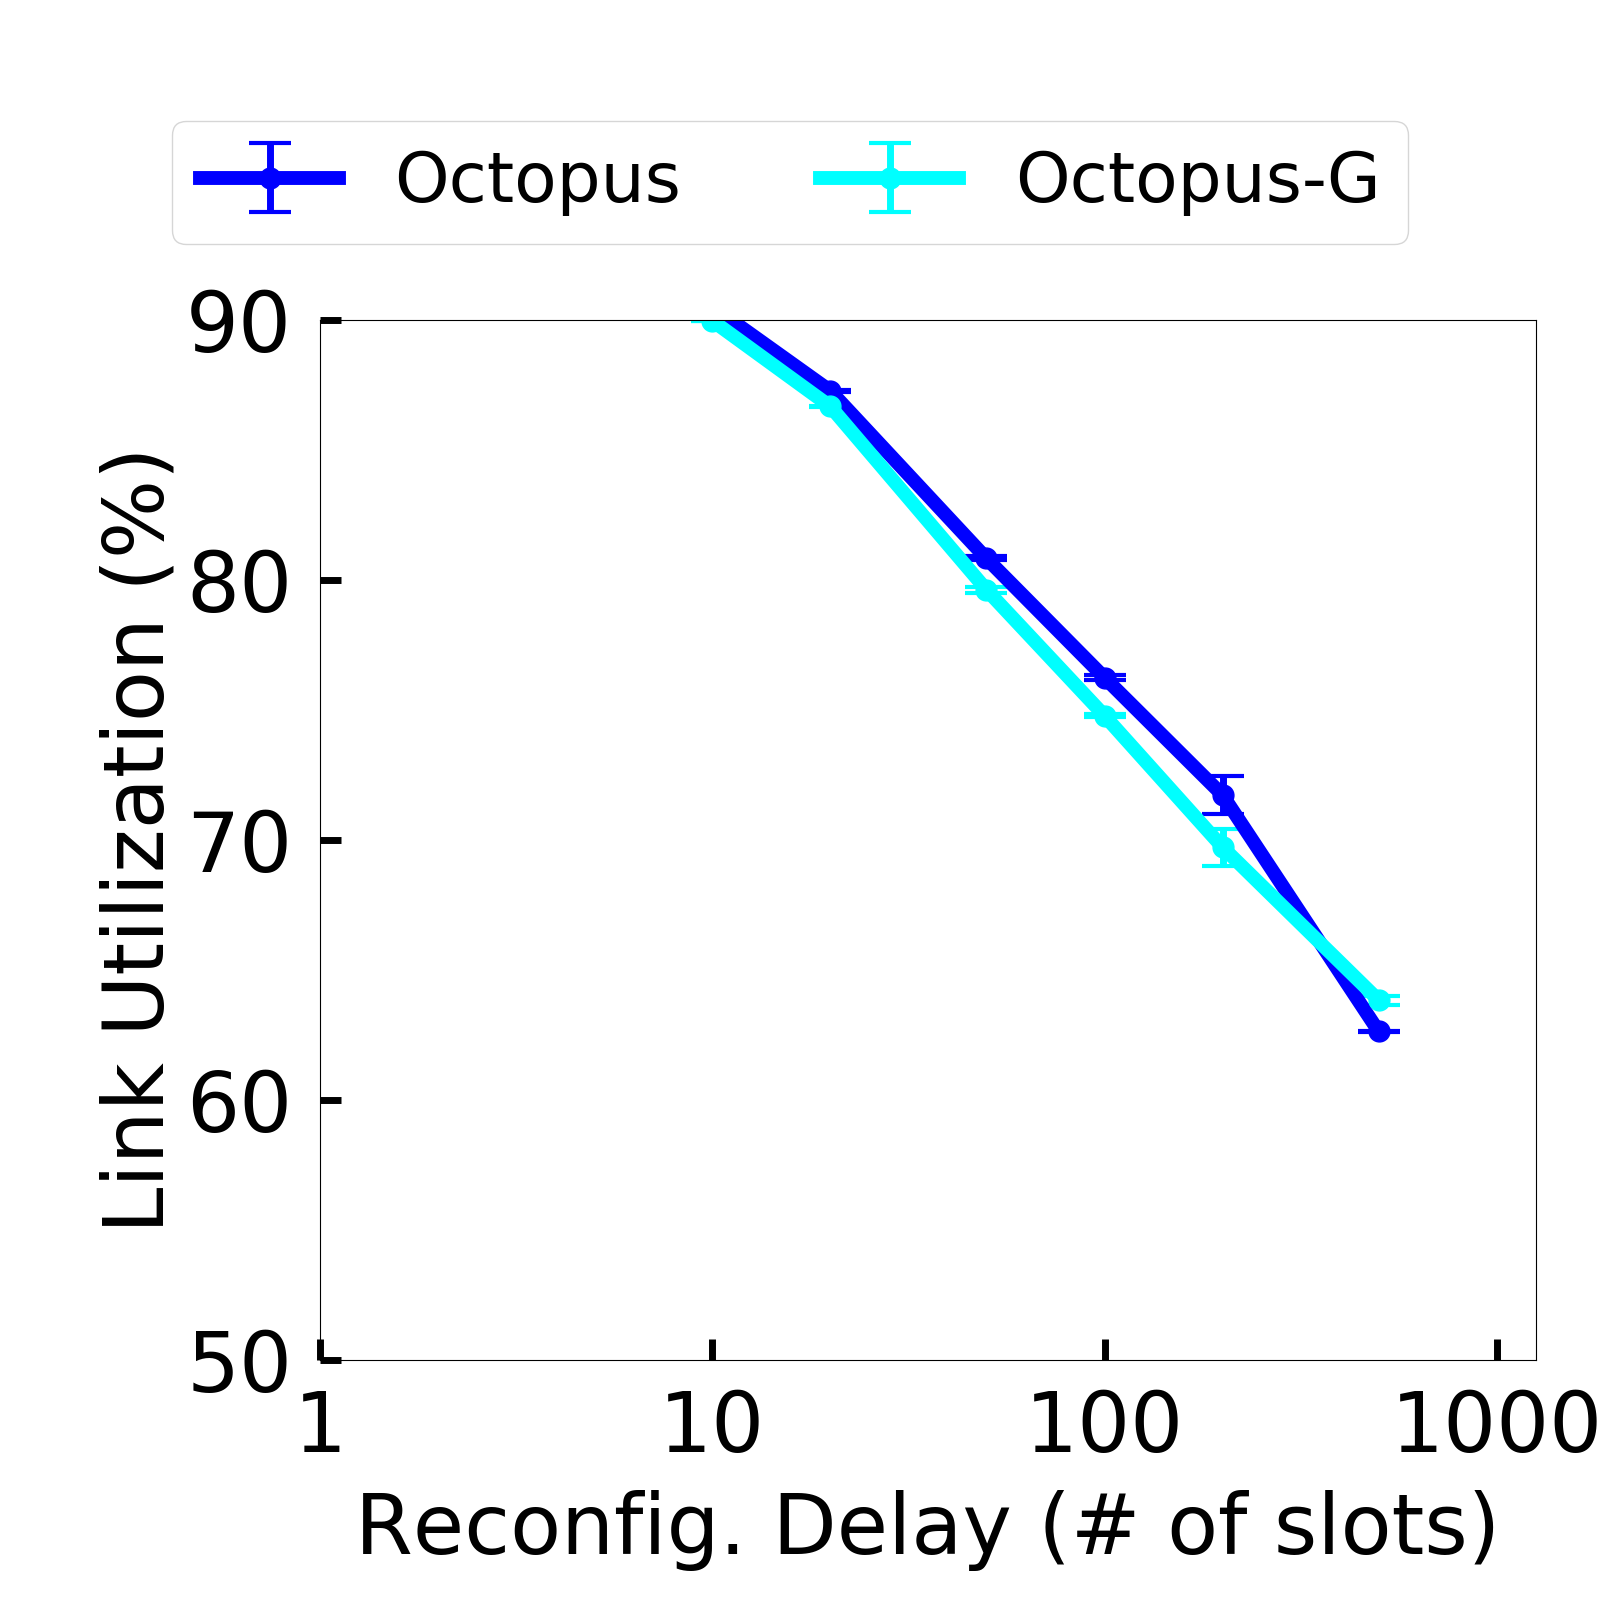
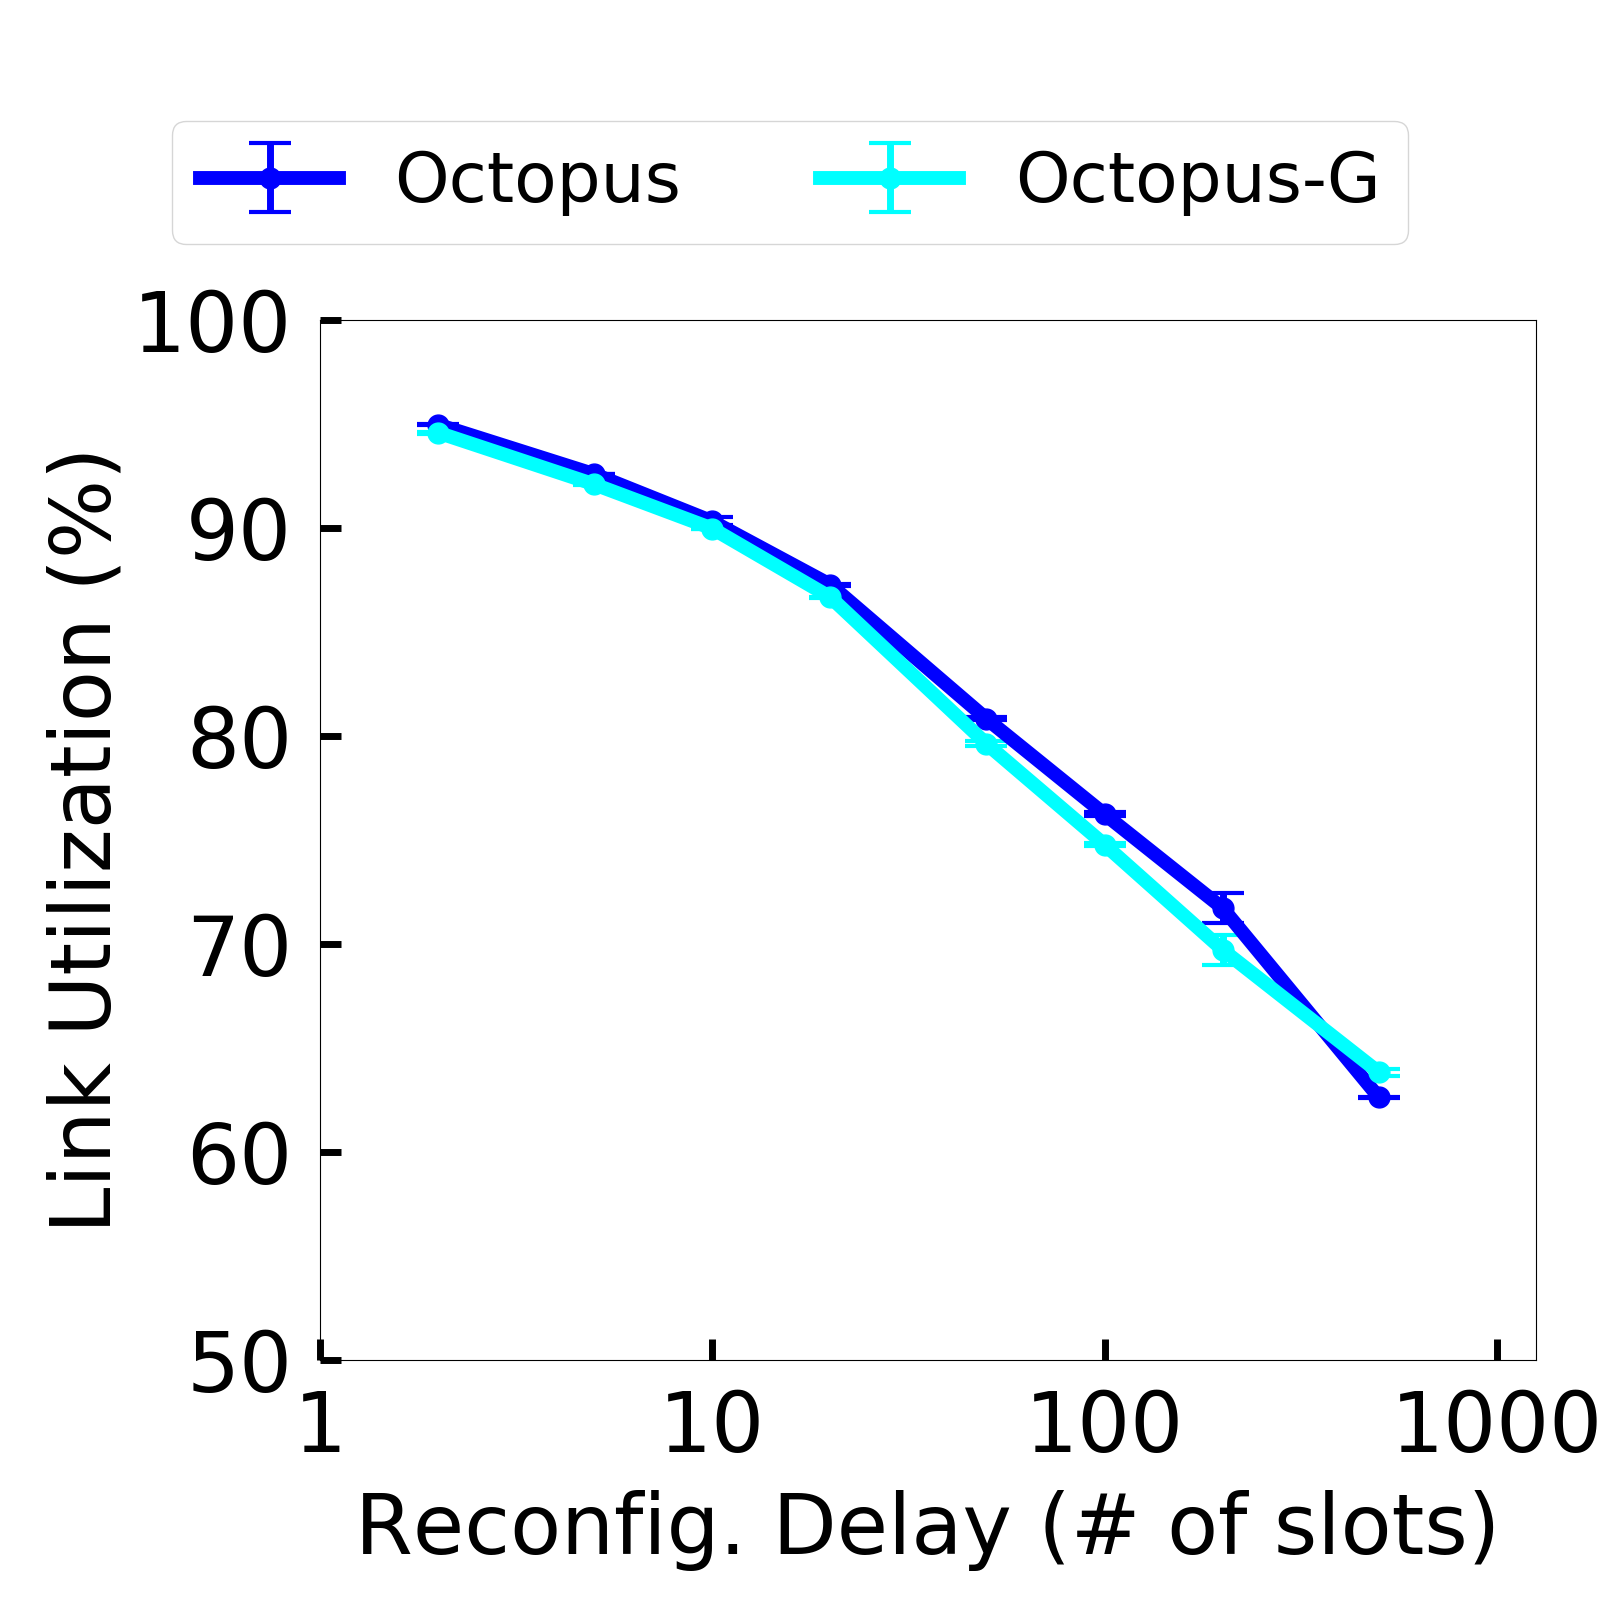
add experiment results

diff --git a/algos.py b/algos.py
@@ -28,6 +28,7 @@ def setUseEps(use_eps):
 	return rv
 
 DEBUG = False
+good_iteration = True
 add_matching_counter = 0
 fast_counter = 0
 full_counter = 0
@@ -44,7 +45,7 @@ class Schedule:
 
 	def addMatching(self, matching, duration, matching_weight):
 		if DEBUG:
-			global add_matching_counter, col_counter, full_counter, fast_counter, full_list, fast_list
+			global add_matching_counter, full_counter, fast_counter, full_list, fast_list
 			add_matching_counter += 1
 			print('add_matching_counter = {}'.format(add_matching_counter))
 			print('time', time.clock())
@@ -52,10 +53,11 @@ class Schedule:
 			fast_list.append(fast_counter)
 			full_counter = 0
 			fast_counter = 0
+		global good_iteration
+		good_iteration = True
 
 		self.matchings.append(matching)
 		self.durations.append(duration)
-
 		self.matching_weights.append(matching_weight)
 
 	def numMatchings(self):
@@ -488,6 +490,7 @@ def findRotornetMatching(num_nodes, iteration):
 def getMatching(subflows_by_next_hop, alpha, num_nodes, all_weights, use_alternate_matching = None, max_weight_matching_library = MAX_WEIGHT_MATCHING_LIBRARY, greedy = False, iteration = None):
 	# Creates the graph for the given alpha
 	graph = createBipartiteGraph(subflows_by_next_hop, alpha, num_nodes, all_weights, max_weight_matching_library = max_weight_matching_library)  # 8 millisec
+	global good_iteration
 
 	if use_alternate_matching == 'random_stable':
 		# Random stable matching using Octopus weights
@@ -540,24 +543,30 @@ def getMatching(subflows_by_next_hop, alpha, num_nodes, all_weights, use_alterna
 		matching_weight = graph[matching[0], matching[1]].sum()
 
 	elif max_weight_matching_library is 'google':
-		if DEBUG:
-			global fast_counter
-			fast_counter += 1
-			if fast_counter % 100 == 99:
-				print('fast', fast_counter)
+		# if DEBUG:
+		# 	global fast_counter
+		# 	fast_counter += 1
+		# 	if fast_counter % 100 == 99:
+		# 		print('fast', fast_counter)
 
 		assignment = pywrapgraph.LinearSumAssignment()
 		for (i, j), subflows in subflows_by_next_hop.iteritems():
 			assignment.AddArcWithCost(i, j, -int(all_weights[(i, j)]))   # 12 millisec
 		
-		column_sum = np.sum(graph, axis=0)
-		arg = np.argwhere(column_sum == 0)
-		for col in arg:
-			col = col[0]
+		if good_iteration:
+			column_sum = np.sum(graph, axis=0)
+			arg = np.argwhere(column_sum == 0)
+			for col in arg:
+				col = col[0]
+				for i in range(len(graph)):
+					assignment.AddArcWithCost(i, col, 0)                 # 0.5 millisec
+			status = assignment.Solve()                                  # 2 millisec
+		else:
 			for i in range(len(graph)):
-				assignment.AddArcWithCost(i, col, 0)                     # 0.5 millisec
-
-		status = assignment.Solve()                                      # 2 millisec
+				for j in range(len(graph)):
+					if graph[i][j] == 0:
+						assignment.AddArcWithCost(i, j, 0)                # 500 millisec
+			status = assignment.Solve()
 
 		if status == assignment.OPTIMAL:
 			left = list(range(len(graph)))
@@ -565,16 +574,11 @@ def getMatching(subflows_by_next_hop, alpha, num_nodes, all_weights, use_alterna
 			matching = [left, right]
 			matching_weight = -assignment.OptimalCost()
 		else:       # then add all the zero-length edges
-			if DEBUG:
-				global full_counter
-				full_counter += 1
-				if full_counter % 100 == 99:
-					print('full', full_counter)
+			good_iteration = False                                        # observation: when assignment.solve fails, the entire iteration will fail
 			for i in range(len(graph)):
 				for j in range(len(graph)):
 					if graph[i][j] == 0:
 						assignment.AddArcWithCost(i, j, 0)
-
 			status = assignment.Solve()
 			
 			if status == assignment.OPTIMAL:
@@ -588,11 +592,10 @@ def getMatching(subflows_by_next_hop, alpha, num_nodes, all_weights, use_alterna
 
 	else:
 		raise Exception('Invalid max_weight_matching_library: ' + str(max_weight_matching_library))
+	
 	matching = convertMatching(graph, matching, num_nodes, use_alternate_matching = use_alternate_matching, max_weight_matching_library = max_weight_matching_library)  # 0.5 millisec
-	# if DEBUG and fast_counter % 100 == 99:
-	# 	print('ending', time.clock())
-
 	return matching, matching_weight
+
 
 # Finds the matching and alpha that maximizes sum of weights of the matching / (alpha + reconfig_delta)
 # Input:
@@ -627,7 +630,6 @@ def findBestMatching(subflows_by_next_hop, alphas, num_nodes, reconfig_delta, se
 	if search_method == 'iterative':
 		# Tries all alpha values in alphas and finds the maximum weighted matching in each
 		for alpha in sorted(alphas):
-			global col_counter, fast_counter
 			matching, matching_weight = getMatching(subflows_by_next_hop, alpha, num_nodes, all_weights_by_alpha[alpha], use_alternate_matching = use_alternate_matching, max_weight_matching_library = max_weight_matching_library, greedy = greedy, iteration = iteration)
 			# Track the graph that maximizes value(G) / (alpha + reconfig_delta)
 			this_objective_value = matching_weight / (alpha + reconfig_delta)

diff --git a/runner.py b/runner.py
@@ -529,9 +529,12 @@ if __name__ == '__main__':
 				inputs.append(Input(reconfig_delta=rd, methods = methods, out_file = out_file.format('reconfig_delta'), key_value = 'reconfig_delta'))
 
 		elif experiment == GREEDY:
-			reconfig_deltas = [2, 5, 10, 20, 50, 100, 200, 500]
-			methods = ['octopus-r', 'octopus-greedy']
+			# reconfig_deltas = [2, 5, 10, 20, 50, 100, 200, 500]
+			# methods = ['octopus-r', 'octopus-greedy']
 
+			reconfig_deltas = [2, 5, 10]
+			methods = ['octopus-r']
+			
 			for rd in reconfig_deltas:
 				inputs.append(Input(num_nodes=1000, reconfig_delta=rd, methods = methods, out_file = out_file.format('reconfig_delta'), key_value = 'reconfig_delta'))
 

diff --git a/run.py b/run.py
@@ -105,7 +105,7 @@ if __name__ == '__main__':
 
 	# Data based on real measurements
 	if input_source in ['microsoft', 'sigmetrics', 'facebook']:
-		random_seed = int(time())
+		random_seed = int((time() - int(time())) * 1000000)
 		traffic = input_utils.Traffic(num_nodes = num_nodes, max_hop = max_route_length, window_size = window_size, num_routes = num_routes, min_route_length = min_route_length, random_seed = random_seed)
 
 	if input_source == 'sigmetrics':
